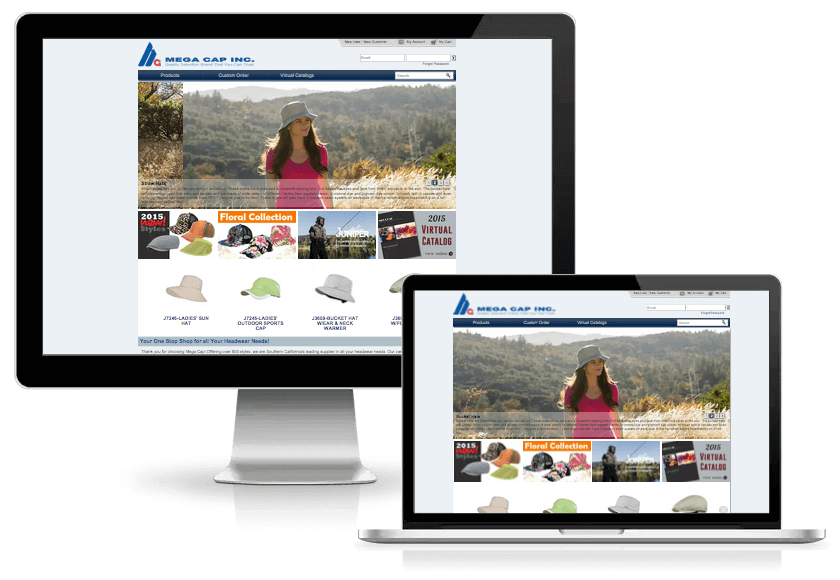
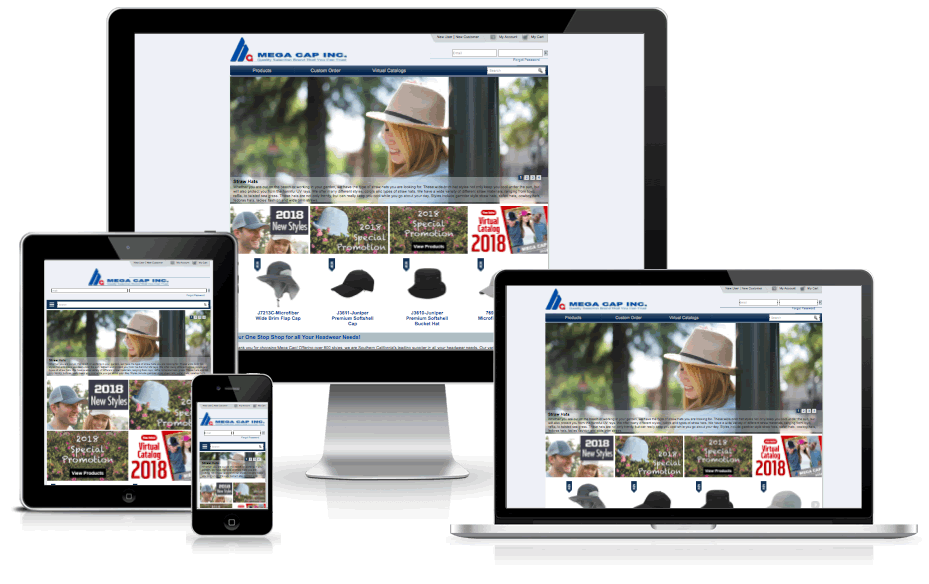
megacapinc換圖

diff --git a/index.html b/index.html
@@ -371,7 +371,7 @@
                         <a href="#portfolioModal5" class="portfolio-link" data-toggle="modal">
                             <div class="caption">
                                 <div class="caption-content">
-                                    <h3>MEGA CAP INC</h3>
+                                    <h3>MEGA CAP INC (RWD)</h3>
                                     <i class="fa fa-search-plus fa-2x"></i>
                                 </div>
                             </div>
